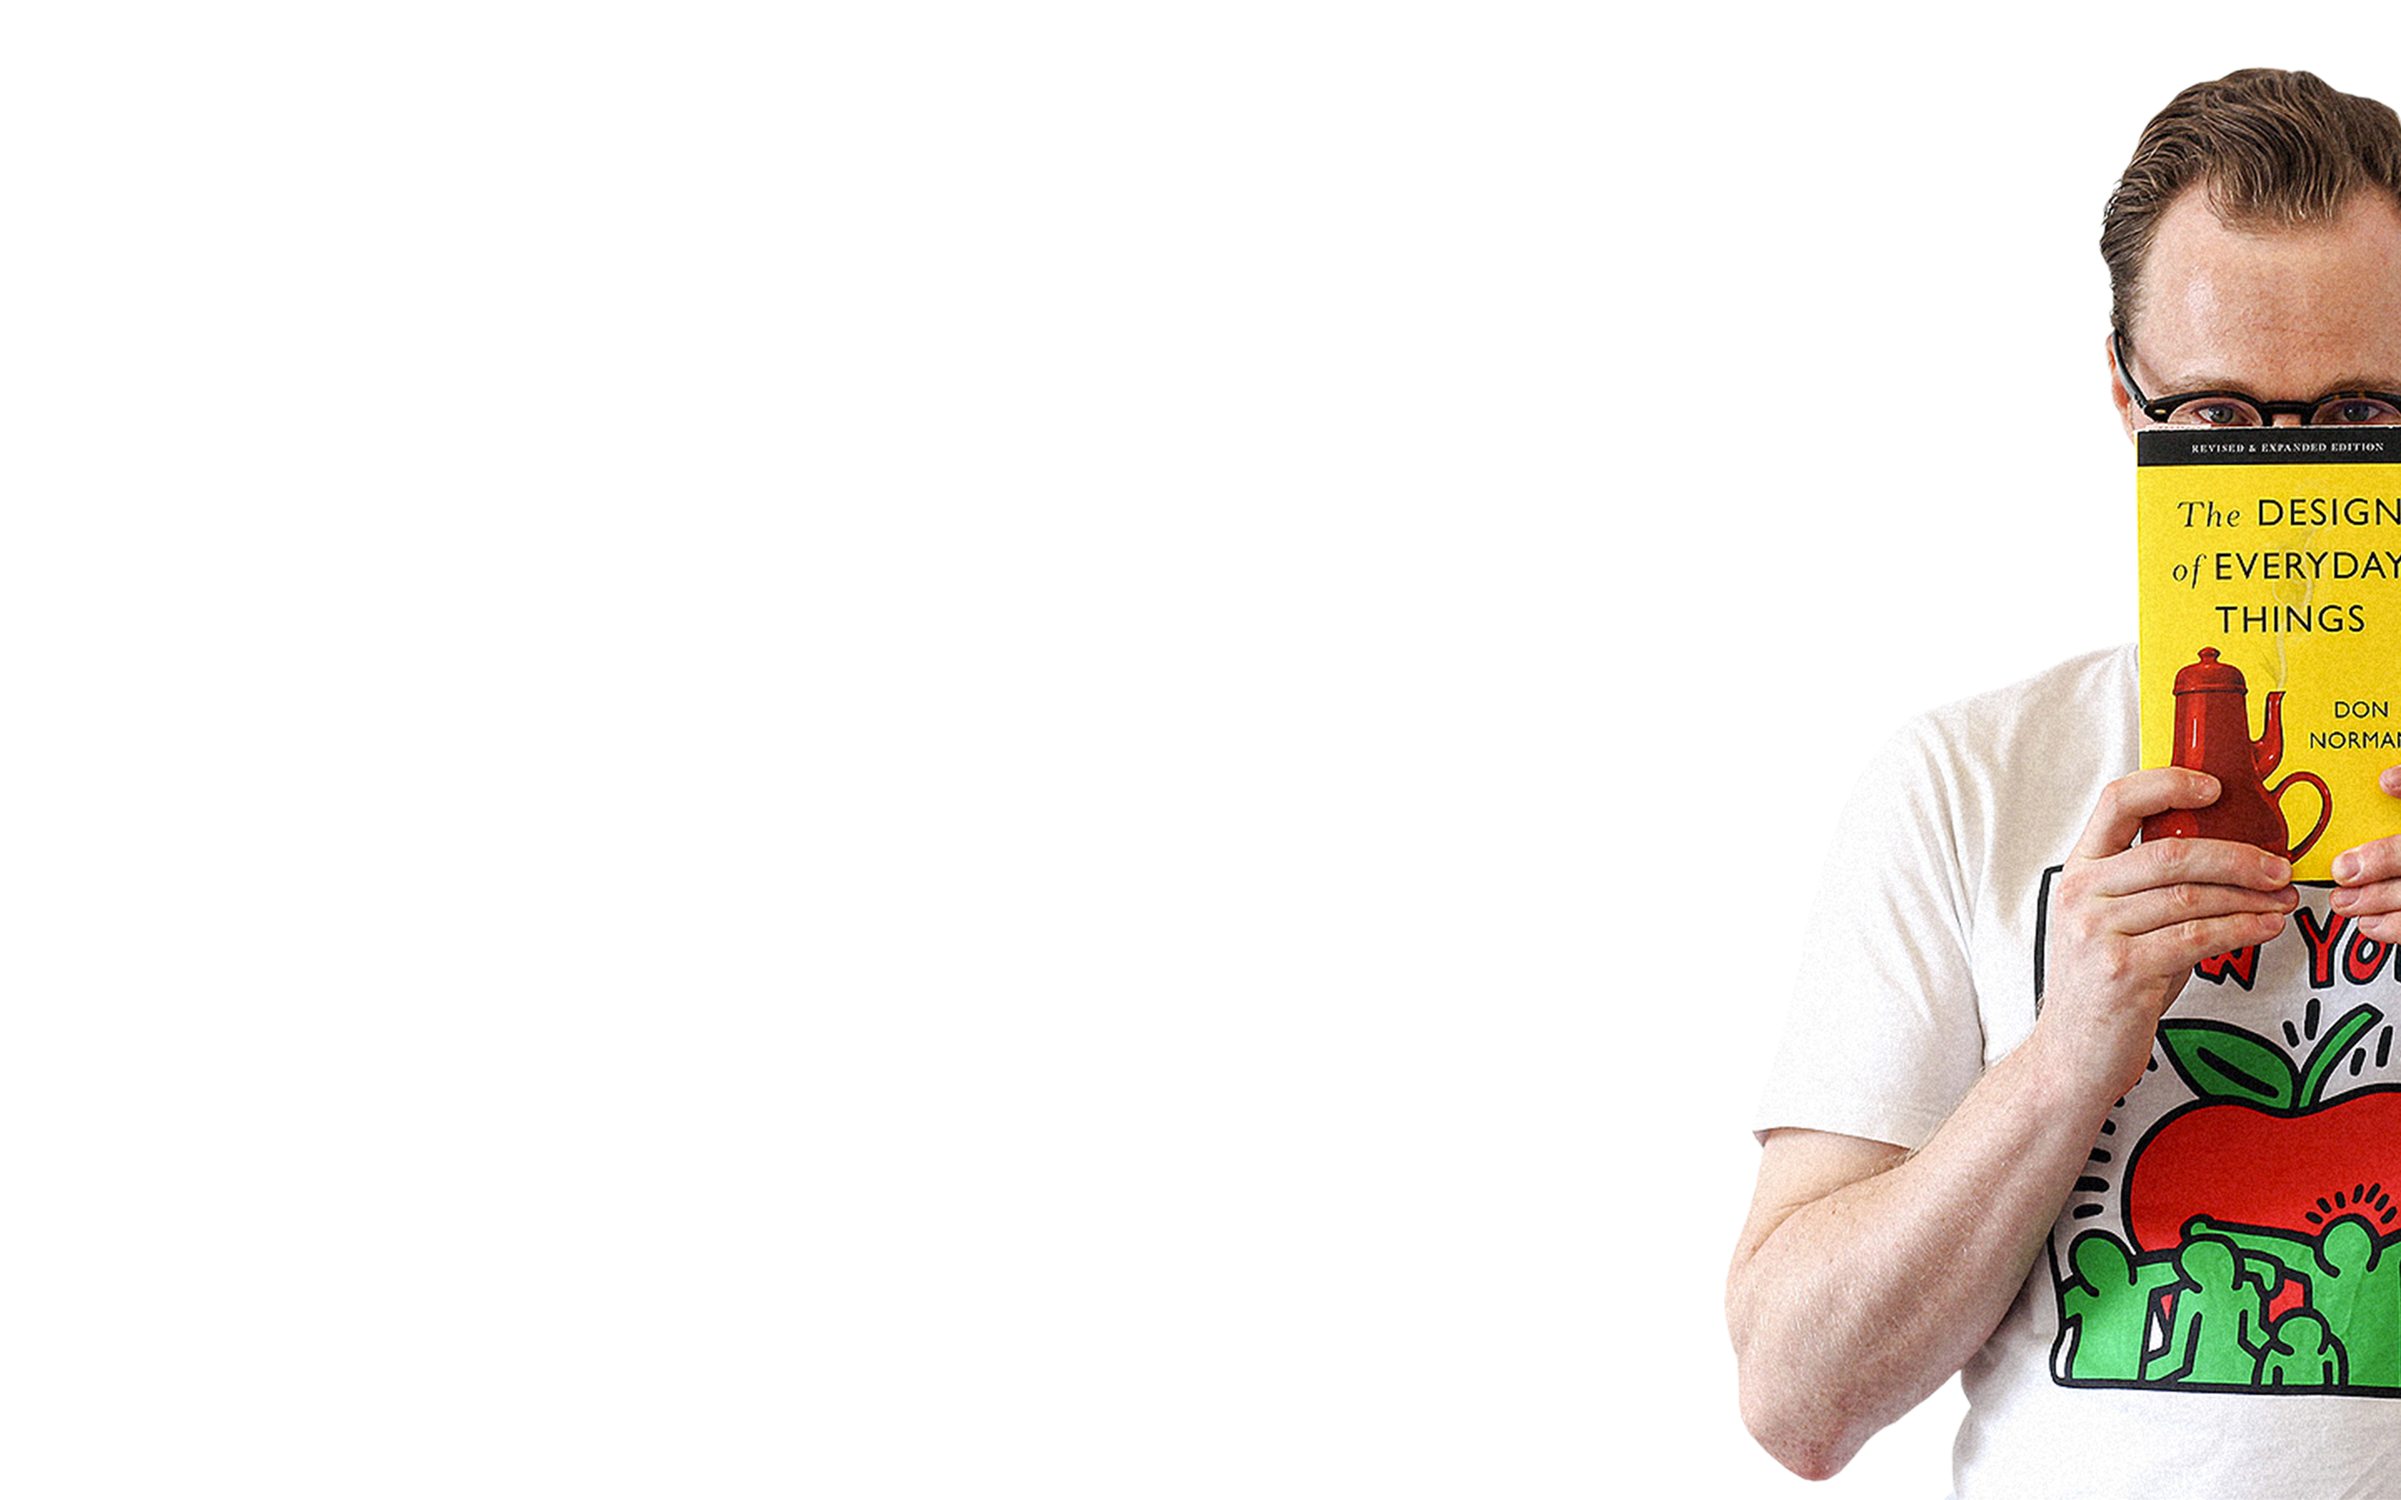
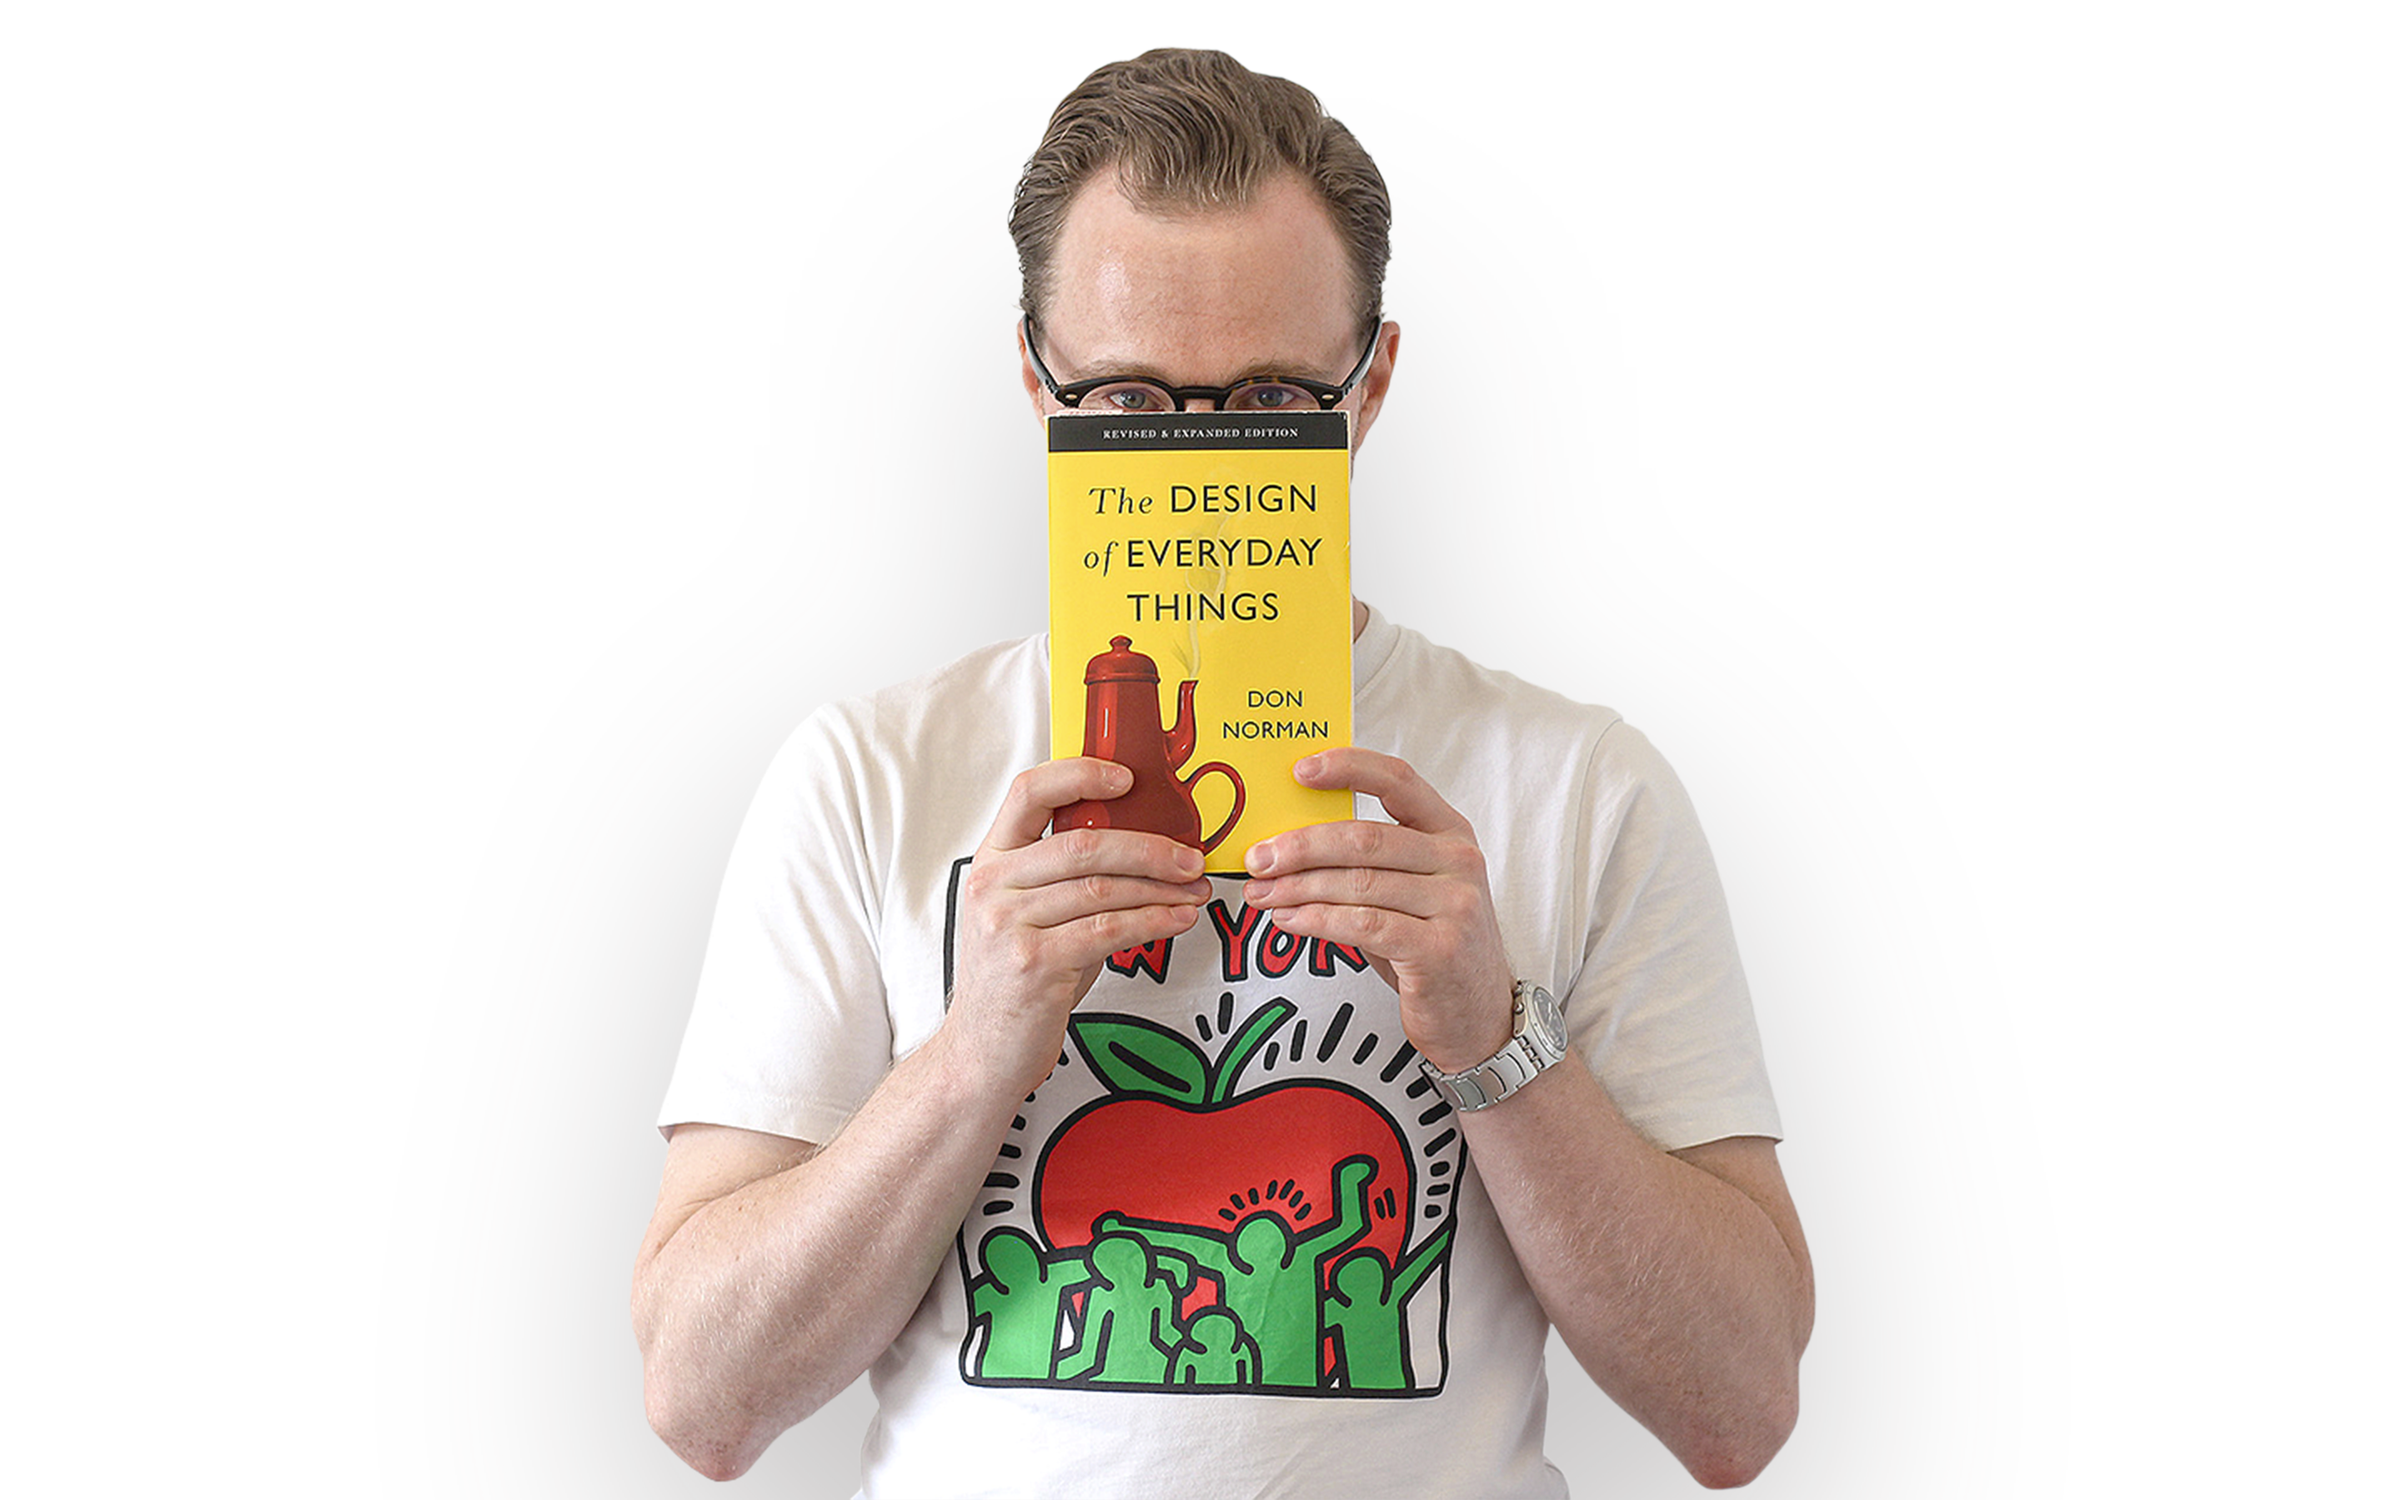
Added new background image

diff --git a/styles/main.css b/styles/main.css
@@ -265,9 +265,9 @@ nav div img {
 
 main {
     background-image: url('../images/adolfoferreira_bg@2x.png');
-    background-position: right bottom;
+    background-position: right -680px bottom 0;
     background-repeat: no-repeat;
-    background-size: 1474px;
+    background-size: 1448px;
 }
 
 main,
